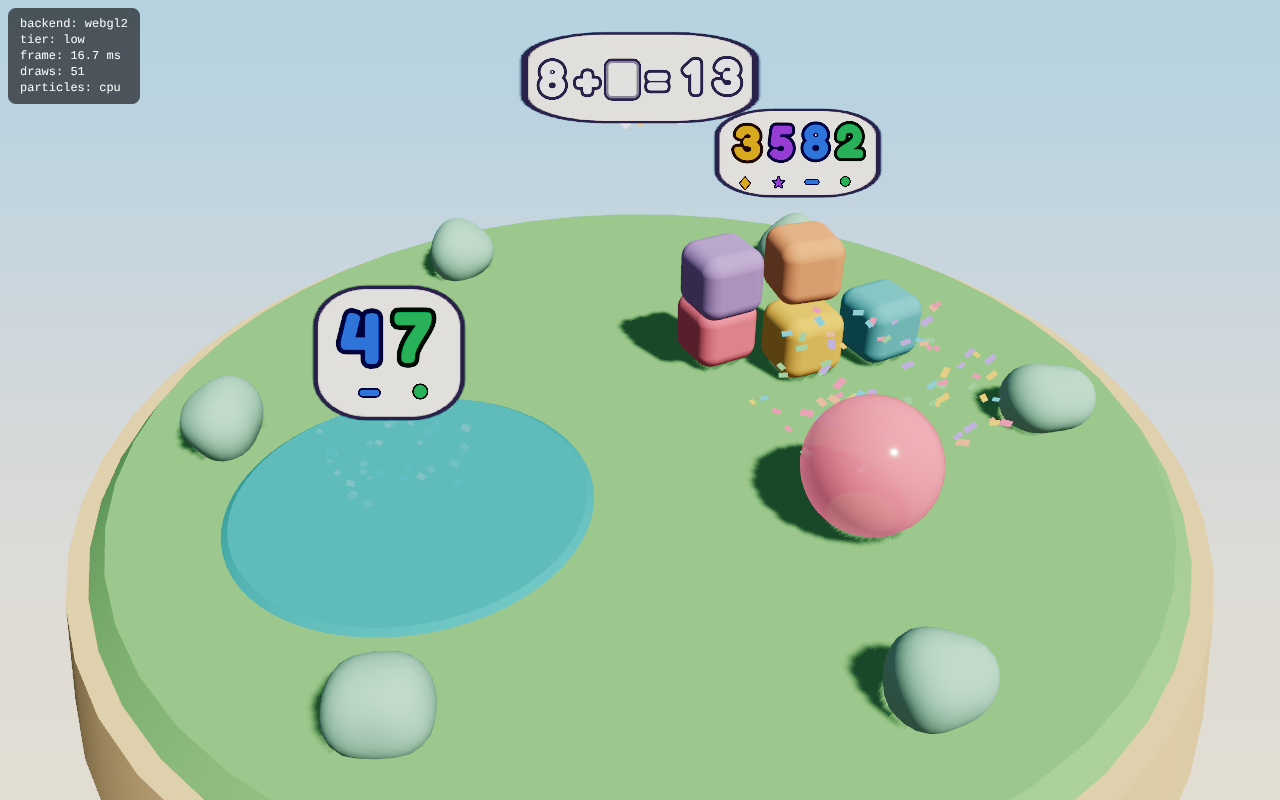
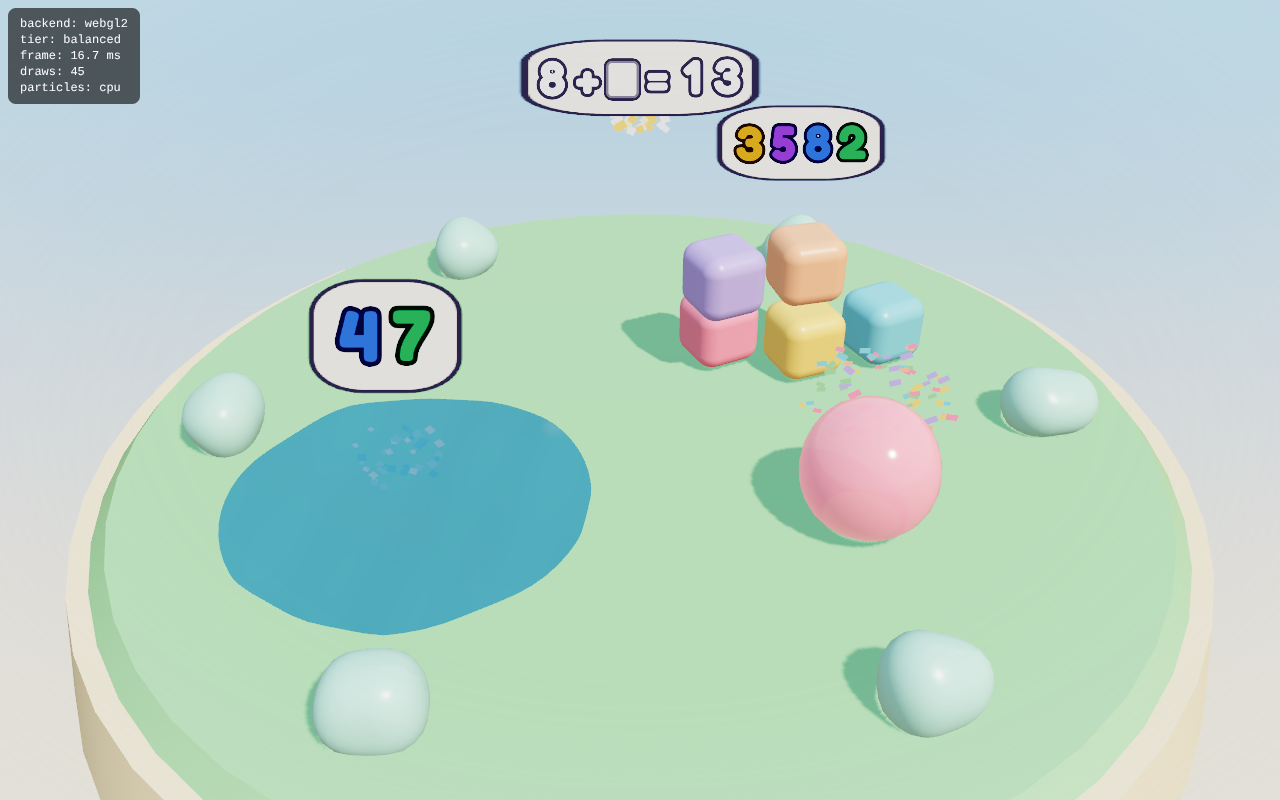
Brighter bonus coin hint; fishing chunk limit 8 kB; refreshed screenshots
Claude-Session: https://claude.ai/code/session_01PnKtNsdn1ybAuMuz4PHG6V

diff --git a/src/stages/fishing/odd-items.ts b/src/stages/fishing/odd-items.ts
@@ -88,7 +88,8 @@ export function createOddItems(): OddItems {
     group.add(it);
   }
   // spinning coin above = "tap it for a coin" (the same gold as the coins that fall when it is caught)
-  const coin = new Mesh(disc(0.2, 0.05, 24), metalMaterial('#ffc83d', 0.2));
+  // bright, self-lit gold (a metal shader would mirror the dark pond and read brown at this size)
+  const coin = new Mesh(disc(0.26, 0.06, 28), toyMaterial('#ffc83d', { rimStrength: 0.9 }));
   coin.rotation.x = Math.PI / 2;
   coin.position.y = 1.25;
   group.add(coin);

diff --git a/DECISIONS.md b/DECISIONS.md
@@ -24,4 +24,4 @@
 | D20 | 2026-10-22 | **슬라임 합체 = 쫀득 + 철퍽 소리**(사용자 요청): 새 효과음 `slime.squish`(떨어지는 덩어리음 + 젖은 노이즈 + 고무 반동 + 뽀글 2번)·`slime.grab`(집을 때), 큰 슬라임일수록 낮은 소리. 움직임: 스프링을 부드럽고 덜 감쇠되게(220/14→120/4.2) 해 오래 출렁임, 합체 시 더 깊게 눌림, 흡수되는 슬라임은 엿가락처럼 늘어나며 빨려 들어감(0.28초), 집으면 아래로 늘어진 모찌 모양, 젤리 표면 물결 더 깊고 느리게 | 사용자 요청 |
 | D21 | 2026-10-22 | 낚시: **숫자 배지는 물고기와 분리**(물고기만 회전, 배지는 따라다니며 항상 정방향 — "70"이 "07"로 보이던 버그). **물길**: 헤엄치는 물고기 뒤로 거품 물결(인스턴스 링 1 드로우콜, 진행 방향으로 늘어남, 속도에 비례, 1.4초), 낚아 올릴 때 퍼지는 물결 3겹 | 사용자 요청 |
 | D22 | 2026-10-30 | **UI "장난감 상자" 디자인 시스템**(사용자: 전체 화면 디자인 다듬기): 크림·보라 잉크·굵은 외곽선 퇴출 → 라군 남색 잉크 #1E3A56, 밀크 플라스틱 #F6FAFD 패널, 성형 플라스틱 키(자기 색의 진한 두께, 눌리면 가라앉음; 선빔·폰드·베리 톤), 상태 칩은 두께 없이 조용히. 글꼴: Jua(@fontsource/jua 5.3.0, 셀프호스팅) 제목·버튼, Fredoka 숫자, Pretendard 설명. **기억될 요소 하나 = 숫자 타일 식**(GoalTiles: 자릿값 색 숫자 타일, 원형 연산 토큰, 점선 빈 홈, 숫자가 들어올 때 딸깍). 폰 세로: 카메라 줌 자동(가로 기준 장면이 잘리지 않게), 좁은 화면 레이아웃(카드·화살표 분리, 나가기는 ✕만), 2D 자릿값 표시도 숫자만 | 사용자 요청 |
-| D23 | 2026-10-30 | 낚시 **보너스 물건 다시 만들기**(사용자: "이거 뭐야?" + 방향 다양하게): 알아볼 수 있는 장화(밑창·끈)·고무 오리(부리·눈)·금 열쇠, 위에 도는 동전 = "누르면 코인", 반짝이·물길. 경로는 규칙의 시드 값(id·lane)에서 결정론으로 만든 휘어진 대각선 — 매번 다른 방향(8방향 중 7방향 이상 테스트), 항상 연못 안. 잡으면 동전이 튀어 오름 | 사용자 요청 |
+| D23 | 2026-10-30 | 낚시 **보너스 물건 다시 만들기**(사용자: "이거 뭐야?" + 방향 다양하게): 알아볼 수 있는 장화(밑창·끈)·고무 오리(부리·눈)·금 열쇠, 위에 도는 동전 = "누르면 코인", 반짝이·물길. 경로는 규칙의 시드 값(id·lane)에서 결정론으로 만든 휘어진 대각선 — 매번 다른 방향(8방향 중 7방향 이상 테스트), 항상 연못 안. 잡으면 동전이 튀어 오름. 낚시 청크 한도 6→8KB(물길·보너스 모델) | 사용자 요청 |
